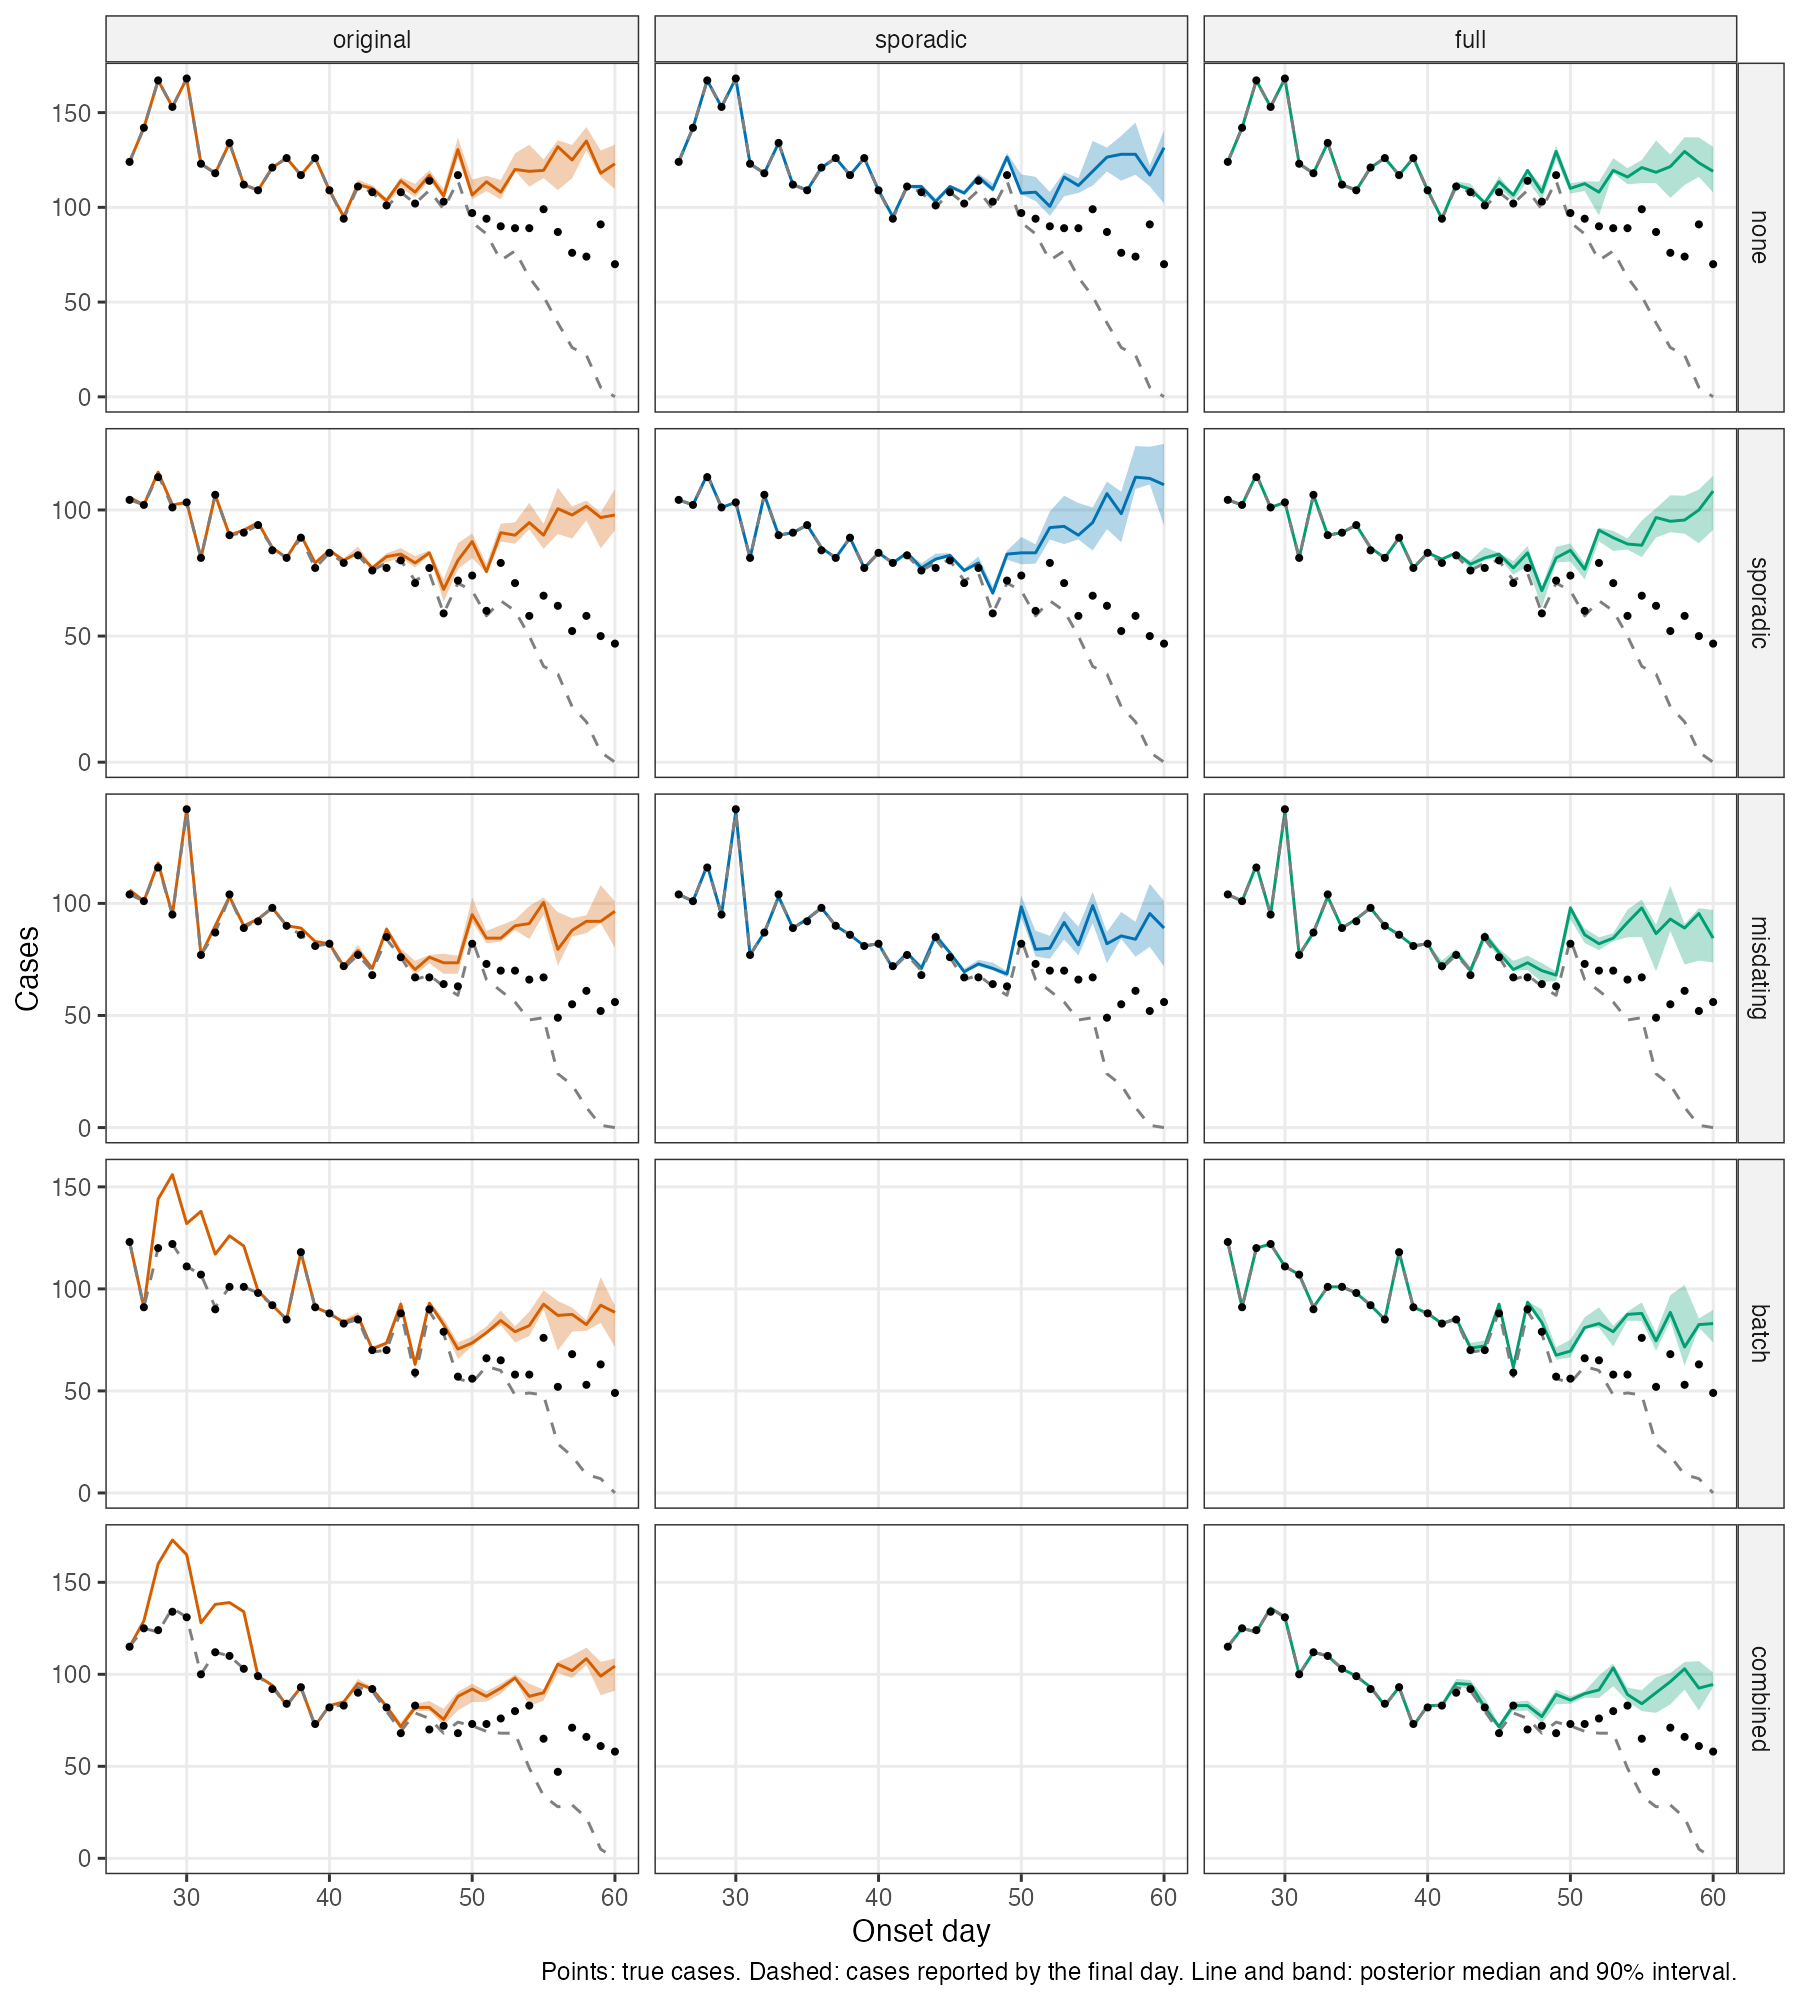
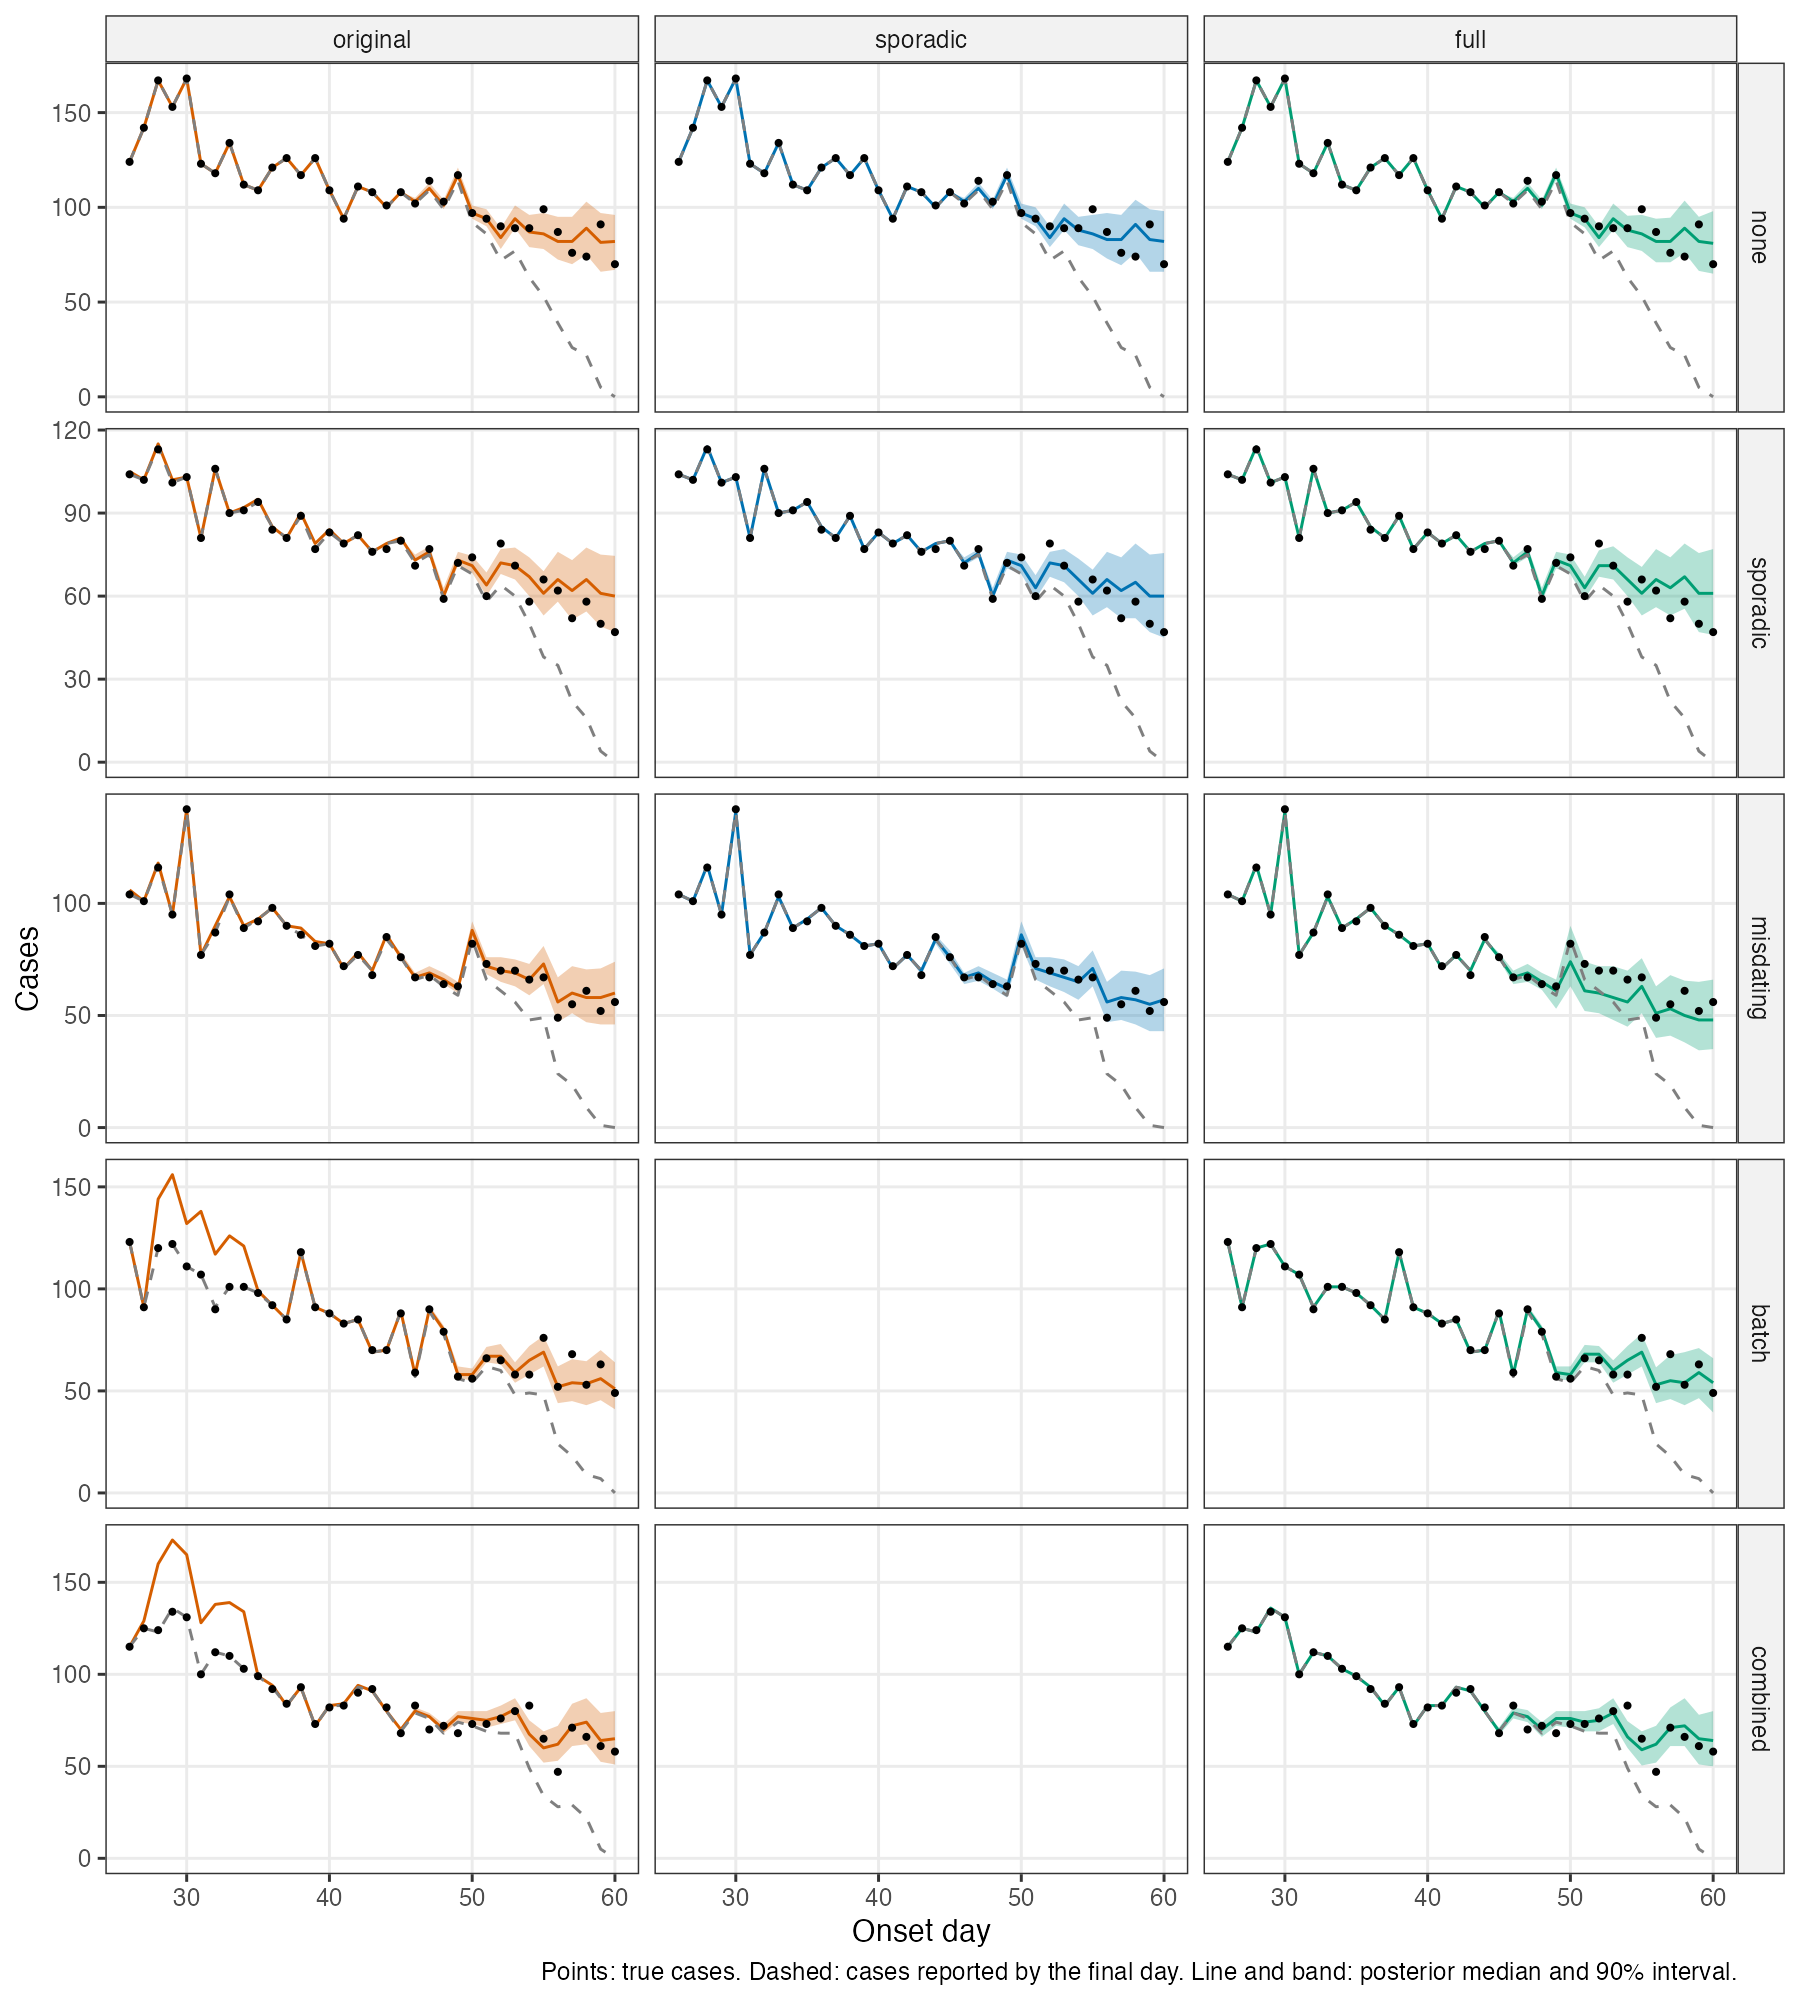
Add results: larger limit on erroneous records in simulations, Dutch fit without batches

diff --git a/outputs/results.md b/outputs/results.md
@@ -10,48 +10,48 @@ Errors, biases and widths of 90% intervals for cases are relative to the mean tr
 
 | regime | model | n_fits | n_failed | recent_coverage | recent_abs_error | recent_bias | recent_width | Rt_last_bias | Rt_last_coverage | footprint_coverage | footprint_bias |
 |---|---|---|---|---|---|---|---|---|---|---|---|
-| none | original | 1 | 0 | 0 | 0.3 | 0.3 | 0.14 | 0.13 | 0 | NaN | NaN |
-| none | sporadic | 1 | 0 | 0 | 0.28 | 0.28 | 0.16 | 0.14 | 0 | NaN | NaN |
-| none | full | 1 | 0 | 0.07 | 0.28 | 0.28 | 0.15 | 0.13 | 0 | NaN | NaN |
-| sporadic | original | 1 | 0 | 0 | 0.42 | 0.42 | 0.16 | 0.15 | 0 | NaN | NaN |
-| sporadic | sporadic | 1 | 0 | 0 | 0.48 | 0.48 | 0.22 | 0.21 | 0 | NaN | NaN |
-| sporadic | full | 1 | 0 | 0 | 0.4 | 0.4 | 0.17 | 0.15 | 0 | NaN | NaN |
-| misdating | original | 1 | 0 | 0 | 0.36 | 0.36 | 0.17 | 0.15 | 0 | NaN | NaN |
-| misdating | sporadic | 1 | 0 | 0 | 0.32 | 0.32 | 0.2 | 0.14 | 0 | NaN | NaN |
-| misdating | full | 1 | 0 | 0 | 0.34 | 0.34 | 0.2 | 0.13 | 0 | NaN | NaN |
-| batch | original | 1 | 0 | 0 | 0.32 | 0.32 | 0.16 | 0.11 | 0 | 0 | 0.24 |
-| batch | sporadic | 1 | 1 | NaN | NaN | NaN | NaN | NaN | NaN | NaN | NaN |
-| batch | full | 1 | 0 | 0 | 0.27 | 0.27 | 0.16 | 0.09 | 0 | 0.86 | 0 |
-| combined | original | 1 | 0 | 0.07 | 0.36 | 0.36 | 0.14 | 0.15 | 0 | 0 | 0.27 |
-| combined | sporadic | 1 | 1 | NaN | NaN | NaN | NaN | NaN | NaN | NaN | NaN |
-| combined | full | 1 | 0 | 0 | 0.32 | 0.32 | 0.16 | 0.11 | 0 | 0.71 | 0 |
+| none | original | 5 | 0 | 0.89 | 0.05 | -0.01 | 0.18 | 0.01 | 1 | NaN | NaN |
+| none | sporadic | 5 | 0 | 0.89 | 0.05 | -0.01 | 0.18 | 0.01 | 1 | NaN | NaN |
+| none | full | 5 | 0 | 0.89 | 0.05 | -0.01 | 0.18 | 0.01 | 1 | NaN | NaN |
+| sporadic | original | 5 | 0 | 0.93 | 0.06 | 0.01 | 0.21 | 0.01 | 1 | NaN | NaN |
+| sporadic | sporadic | 5 | 0 | 0.91 | 0.06 | 0 | 0.22 | 0.01 | 1 | NaN | NaN |
+| sporadic | full | 5 | 0 | 0.91 | 0.06 | 0 | 0.22 | 0.01 | 1 | NaN | NaN |
+| misdating | original | 5 | 0 | 0.8 | 0.06 | 0.03 | 0.22 | 0.02 | 0.8 | NaN | NaN |
+| misdating | sporadic | 5 | 0 | 0.89 | 0.06 | 0.02 | 0.23 | 0.02 | 0.8 | NaN | NaN |
+| misdating | full | 5 | 0 | 0.93 | 0.07 | -0.01 | 0.26 | 0.01 | 0.8 | NaN | NaN |
+| batch | original | 5 | 0 | 0.9 | 0.05 | -0.01 | 0.19 | -0.02 | 0.8 | 0 | 0.26 |
+| batch | sporadic | 5 | 5 | NaN | NaN | NaN | NaN | NaN | NaN | NaN | NaN |
+| batch | full | 5 | 0 | 0.91 | 0.05 | 0 | 0.2 | -0.02 | 0.8 | 0.94 | 0 |
+| combined | original | 5 | 0 | 0.77 | 0.07 | 0.04 | 0.21 | 0.02 | 0.8 | 0 | 0.25 |
+| combined | sporadic | 5 | 5 | NaN | NaN | NaN | NaN | NaN | NaN | NaN | NaN |
+| combined | full | 5 | 0 | 0.84 | 0.06 | 0.02 | 0.23 | 0.02 | 0.8 | 0.51 | 0 |
 
 Posterior medians of parameters (means across replicates) and run time in seconds:
 
 | regime | model | reporting_mean | reporting_sd | eta | rho | pi | p_any_batch | seconds |
 |---|---|---|---|---|---|---|---|---|
-| none | original | 6.849 | 4.148 | NaN | NaN | NaN | NaN | 4.812 |
-| none | sporadic | 6.879 | 3.976 | 0.021 | 0.262 | 0 | NaN | 5.378 |
-| none | full | 6.743 | 3.985 | 0.009 | 0.331 | 0.019 | 0 | 11.251 |
-| sporadic | original | 6.849 | 4.148 | NaN | NaN | NaN | NaN | 4.573 |
-| sporadic | sporadic | 6.879 | 3.976 | 0.024 | 0.197 | 0 | NaN | 5.379 |
-| sporadic | full | 6.782 | 3.982 | 0.016 | 0.258 | 0.031 | 1 | 9.991 |
-| misdating | original | 6.849 | 4.148 | NaN | NaN | NaN | NaN | 4.392 |
-| misdating | sporadic | 6.879 | 3.976 | 0.022 | 0.154 | 0 | NaN | 5.014 |
-| misdating | full | 6.811 | 3.93 | 0.018 | 0.126 | 0.04 | 1 | 10.535 |
-| batch | original | 6.849 | 4.148 | NaN | NaN | NaN | NaN | 4.573 |
-| batch | sporadic | NaN | NaN | NaN | NaN | NaN | NaN | 0.004 |
-| batch | full | 6.92 | 4.03 | 0.009 | 0.306 | 0.039 | 1 | 10.674 |
-| combined | original | 6.849 | 4.148 | NaN | NaN | NaN | NaN | 4.436 |
-| combined | sporadic | NaN | NaN | NaN | NaN | NaN | NaN | 0.009 |
-| combined | full | 6.859 | 3.986 | 0.009 | 0.132 | 0.036 | 1 | 11.837 |
+| none | original | 5.025 | 3.004 | NaN | NaN | NaN | NaN | 340.854 |
+| none | sporadic | 5.022 | 2.996 | 0.001 | 0.268 | 0 | NaN | 565.056 |
+| none | full | 5.018 | 2.999 | 0.002 | 0.389 | 0.001 | 0.049 | 1771.559 |
+| sporadic | original | 4.928 | 2.941 | NaN | NaN | NaN | NaN | 315.037 |
+| sporadic | sporadic | 4.991 | 2.982 | 0.024 | 0.153 | 0 | NaN | 514.149 |
+| sporadic | full | 4.965 | 2.956 | 0.019 | 0.171 | 0.006 | 0.079 | 1589.787 |
+| misdating | original | 5.08 | 3.161 | NaN | NaN | NaN | NaN | 325.544 |
+| misdating | sporadic | 5.499 | 3.555 | 0.108 | 0.189 | 0 | NaN | 585.592 |
+| misdating | full | 5.003 | 3.025 | 0.015 | 0.165 | 0.089 | 0.176 | 2207.752 |
+| batch | original | 4.977 | 2.988 | NaN | NaN | NaN | NaN | 305.321 |
+| batch | sporadic | NaN | NaN | NaN | NaN | NaN | NaN | 0.014 |
+| batch | full | 4.987 | 2.995 | 0.002 | 0.18 | 0.004 | 1 | 1957.677 |
+| combined | original | 5.04 | 3.111 | NaN | NaN | NaN | NaN | 305.44 |
+| combined | sporadic | NaN | NaN | NaN | NaN | NaN | NaN | 0.006 |
+| combined | full | 5.025 | 3.048 | 0.021 | 0.17 | 0.096 | 1 | 1867.222 |
 
 Fits which failed:
 
 | regime | model | error | n |
 |---|---|---|---|
-| batch | sporadic | Reported cases are revised downwards by more than max_erroneous: increase max_erroneous. | 1 |
-| combined | sporadic | Reported cases are revised downwards by more than max_erroneous: increase max_erroneous. | 1 |
+| batch | sporadic | Reported cases are revised downwards by more than max_erroneous: increase max_erroneous. | 5 |
+| combined | sporadic | Reported cases are revised downwards by more than max_erroneous: increase max_erroneous. | 5 |
 
 ## Netherlands COVID-19 cases by symptom onset date
 
@@ -66,6 +66,7 @@ Parameters are posterior medians with 90% intervals.
 
 | model | seconds | failed | error | recent_coverage | recent_abs_error | recent_bias | recent_width | reporting_mean | reporting_sd | eta | rho | pi | p_any_batch |
 |---|---|---|---|---|---|---|---|---|---|---|---|---|---|
-| original | 3.823 | FALSE |  | 0.286 | 0.171 | -0.163 | 0.036 | 7.09 (7.09, 7.09) | 4.11 (4.11, 4.11) |  |  |  |  |
-| sporadic | 4.252 | FALSE |  | 0.143 | 0.168 | -0.156 | 0.049 | 7.07 (7.07, 7.15) | 4.05 (4.04, 4.05) | 0.00965 (0.00965, 0.0127) | 0.16 (0.139, 0.16) | 0 (0, 0) |  |
-| full | 50.413 | FALSE |  | 0.071 | 0.179 | -0.154 | 0.038 | 7.22 (7.18, 7.22) | 4.11 (4.11, 4.11) | 0.0102 (0.0087, 0.0102) | 0.115 (0.115, 0.165) | 0.0464 (0.0464, 0.0489) | 1 |
+| original | 620.579 | FALSE |  | 0.071 | 0.156 | 0.023 | 0.136 | 8.15 (8.07, 8.2) | 5 (4.93, 5.04) |  |  |  |  |
+| sporadic | 741.659 | FALSE |  | 0.143 | 0.16 | 0.018 | 0.129 | 8.29 (8.23, 8.36) | 5.14 (5.07, 5.21) | 0.0182 (0.0156, 0.0214) | 0.184 (0.149, 0.24) | 0 (0, 0) |  |
+| full | 9755.818 | FALSE |  | 0.571 | 0.103 | -0.033 | 0.134 | 7.19 (7.09, 7.26) | 3.76 (3.65, 3.83) | 0.00027 (7.28e-05, 0.000443) | 0.0592 (0.056, 0.0633) | 0.0415 (0.0379, 0.0459) | 1 |
+| full without batches | 1610.922 | FALSE |  | 0.714 | 0.1 | -0.046 | 0.128 | 7.09 (7.03, 7.18) | 3.7 (3.63, 3.76) | 0.000229 (0.000138, 0.000305) | 0.0594 (0.0543, 0.0628) | 0.0423 (0.0405, 0.0445) |  |

diff --git a/README.md b/README.md
@@ -12,9 +12,58 @@ installed version:
 
 ```
 Rscript scripts/install_package.R   # installs ../incidenceinflation_2.0 into .lib/
-Rscript scripts/download_data.R     # fetches raw data into data/raw/
 Rscript -e 'targets::tar_make()'
 ```
+
+The package must be on a branch which includes misdating and batches
+(`compiled-kernel` or `batches` at the time of writing). The snapshot table for
+the real-data example is tracked in `data/processed/`, so nothing needs to be
+downloaded to run the pipeline. To rebuild it from the raw files:
+
+```
+Rscript scripts/download_data.R          # fetches raw files into data/raw/ (about 40MB)
+Rscript scripts/build_processed_data.R
+```
+
+The size of the run is set by environment variables: `PIPELINE_REPLICATES`
+(default 5), `PIPELINE_ITERATIONS` (700), `PIPELINE_ITERATIONS_REAL` (1000) and
+`PIPELINE_WORKERS` (8).
+
+## What the pipeline does
+
+### Simulated data
+
+Data are simulated for 60 onset days under five regimes (`R/simulate.R`):
+
+| Regime | Mechanisms present |
+|---|---|
+| `none` | reporting delays only |
+| `sporadic` | spurious records entered and later deleted, one at a time |
+| `misdating` | genuine cases recorded under a nearby onset day and later moved |
+| `batch` | a batch of erroneous records covering seven onset days, all withdrawn on one day |
+| `combined` | all of the above |
+
+Three models are fitted to each dataset (`R/fit.R`):
+
+| Model | Description |
+|---|---|
+| `original` | the published model, in which counts can only rise; fitted after replacing each onset day's counts by their running maximum |
+| `sporadic` | adds spurious records which are entered and withdrawn one at a time |
+| `full` | adds misdated onset days and batches |
+
+Each fit is scored against the truth (`R/summarise.R`): coverage, error and
+width of nowcasts for the latest 14 onset days; bias and coverage for the
+latest Rt; and estimates of the parameters.
+
+### Netherlands COVID-19 cases by symptom onset date
+
+RIVM published a case file each day listing every case known, with a date and
+what that date represents; the daily files were archived by volunteers at
+<https://github.com/mzelst/covid-19>. Counting the cases whose date is a day of
+symptom onset in each daily file gives snapshots of cases by onset date which
+contain real downward revisions. The models are fitted to what was known on
+1 September 2020 for onset dates from 1 July, and the nowcasts compared with
+the counts for the same onset dates as known on 15 October.
 
 ## Layout
 
@@ -23,4 +72,4 @@ Rscript -e 'targets::tar_make()'
 - `scripts/`: one-off setup scripts.
 - `data/raw/`: downloaded files (not tracked).
 - `data/processed/`: snapshot tables derived from the raw files (tracked).
-- `outputs/`: figures and tables written by the pipeline.
+- `outputs/`: figures, tables and `results.md`, written by the pipeline.
